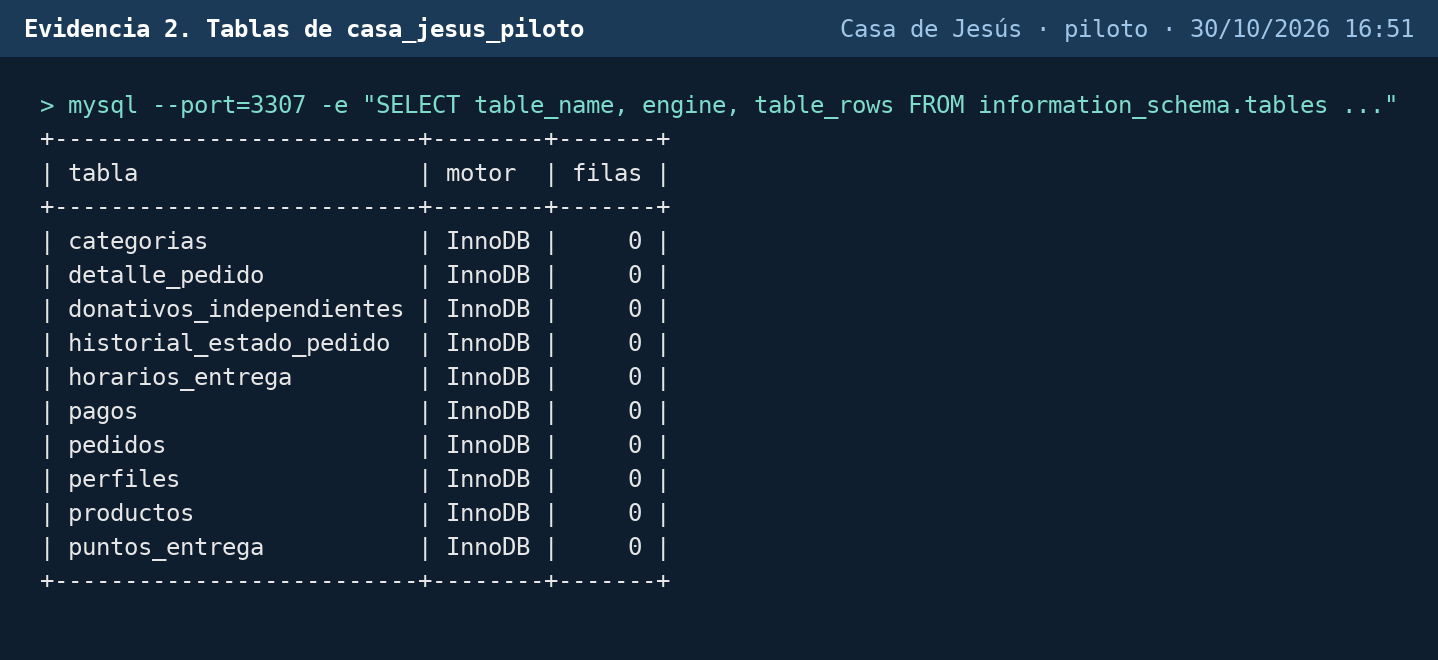
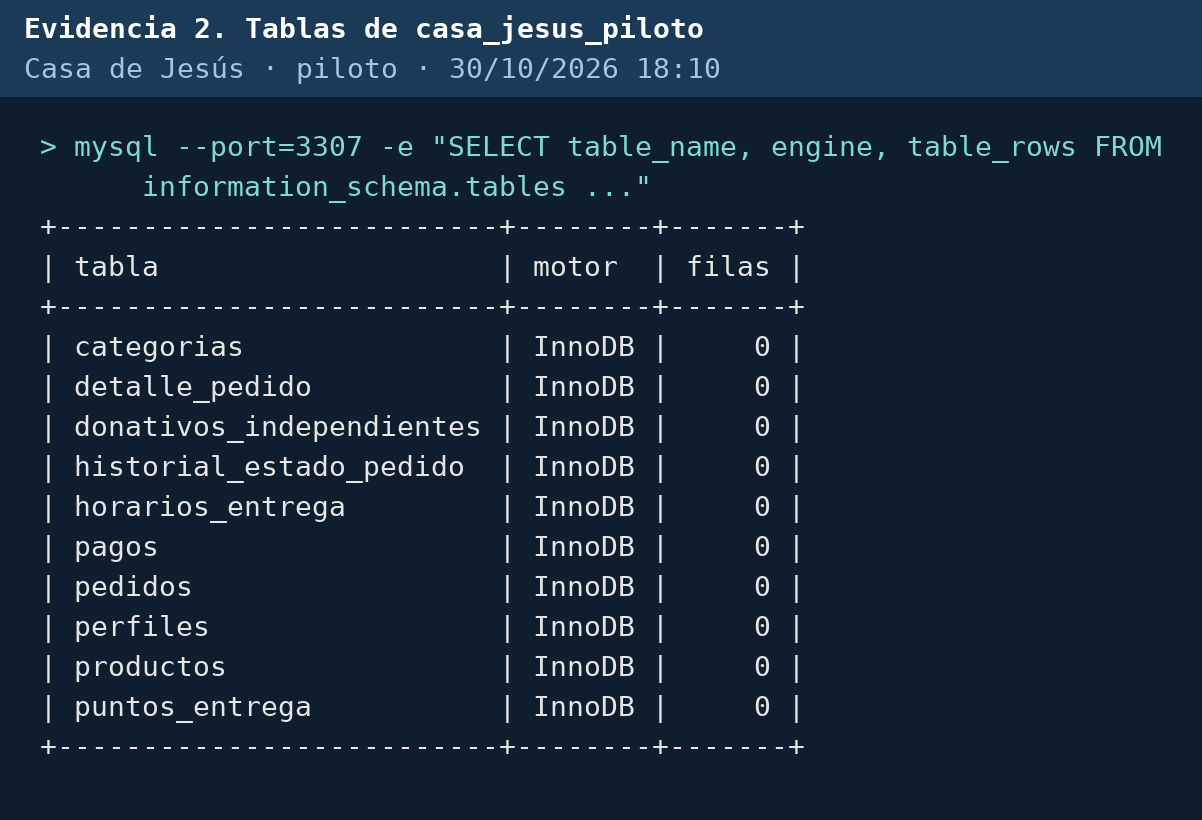
Correcciones de la revisión final: evidencias legibles, textos al día y esquema vigente

diff --git a/evidencias/generar_evidencias.py b/evidencias/generar_evidencias.py
@@ -19,7 +19,7 @@ APP = AQUI.parent / "aplicacion"
 MYSQL = r"C:\xampp\mysql\bin\mysql.exe"
 BASE = [MYSQL, "--no-defaults", "--protocol=tcp", "--host=127.0.0.1", "--port=3307", "--user=root"]
 FECHA = datetime.now().strftime("%d/%m/%Y %H:%M")
-ANCHO_MAX = 100  # caracteres por línea en la imagen
+ANCHO_MAX = 84  # caracteres por línea: a 28 px queda arriba de 8 pt al imprimir a 6.5"
 # DejaVu Sans Mono viene con matplotlib y tiene los símbolos de la salida de Next.js (✓, ┌, └)
 FUENTES = Path(matplotlib.get_data_path()) / "fonts" / "ttf"
 
@@ -29,11 +29,12 @@ SQL_TABLAS = ("SELECT table_name AS tabla, engine AS motor, table_rows AS filas 
 SQL_RELACIONES = ("SELECT table_name AS tabla, column_name AS columna, referenced_table_name AS referencia, "
                   "constraint_name AS restriccion FROM information_schema.key_column_usage "
                   "WHERE table_schema='casa_jesus_piloto' AND referenced_table_name IS NOT NULL ORDER BY 1, 2;")
-SQL_RESTRICCIONES = ("SELECT tc.table_name AS tabla, tc.constraint_name AS restriccion, cc.check_clause AS regla "
+# Una línea por regla (tabla.restricción: regla) para que la imagen quepa legible en la hoja
+SQL_RESTRICCIONES = ("SELECT CONCAT(tc.table_name, '.', tc.constraint_name, ': ', cc.check_clause) AS regla "
                      "FROM information_schema.table_constraints tc JOIN information_schema.check_constraints cc "
                      "ON cc.constraint_schema = tc.constraint_schema AND cc.constraint_name = tc.constraint_name "
                      "AND cc.table_name = tc.table_name WHERE tc.table_schema='casa_jesus_piloto' "
-                     "AND tc.constraint_type='CHECK' ORDER BY 1, 2;")
+                     "AND tc.constraint_type='CHECK' ORDER BY 1;")
 SQL_RECHAZOS = """START TRANSACTION;
 INSERT INTO productos (nombre, precio) VALUES ('Prueba precio negativo', -10);
 INSERT INTO productos (nombre, precio, categoria_id) VALUES ('Prueba categoria inexistente', 100, 999);
@@ -58,8 +59,8 @@ def sql(consulta, extra=()):
 
 
 def imagen(nombre, titulo, comando, salida):
-    fuente = ImageFont.truetype(str(FUENTES / "DejaVuSansMono.ttf"), 24)
-    negrita = ImageFont.truetype(str(FUENTES / "DejaVuSansMono-Bold.ttf"), 24)
+    fuente = ImageFont.truetype(str(FUENTES / "DejaVuSansMono.ttf"), 28)
+    negrita = ImageFont.truetype(str(FUENTES / "DejaVuSansMono-Bold.ttf"), 28)
     lineas = [(f"> {l}" if i == 0 else f"  {l}", "#7FDBCA") for i, l in enumerate(comando.split("\n"))]
     lineas += [(l, "#E6E6E6") for l in salida.split("\n")]
     # Para que se lea impresa a lo ancho de la hoja, las líneas largas se parten (las tablas no)
@@ -73,18 +74,19 @@ def imagen(nombre, titulo, comando, salida):
         partidas += [(x, color) for x in trozos]
     lineas = partidas
     sello = f"Casa de Jesús · piloto · {FECHA}"
-    ancho = max(int(negrita.getlength(titulo) + fuente.getlength(sello)) + 100,
+    # El sello va en una segunda línea del encabezado: así el ancho lo marca el contenido
+    ancho = max(int(negrita.getlength(titulo)) + 60, int(fuente.getlength(sello)) + 60,
                 max(int(fuente.getlength(t)) for t, _ in lineas) + 80)
-    alto = 70 + 40 + len(lineas) * 34 + 40
+    alto = 100 + 40 + len(lineas) * 40 + 40
     im = Image.new("RGB", (ancho, alto), "#0F1E2E")
     d = ImageDraw.Draw(im)
-    d.rectangle((0, 0, ancho, 56), fill="#1B3A57")
-    d.text((24, 14), titulo, font=negrita, fill="#FFFFFF")
-    d.text((ancho - 24, 14), sello, font=fuente, fill="#9FC5E8", anchor="ra")
-    y = 90
+    d.rectangle((0, 0, ancho, 96), fill="#1B3A57")
+    d.text((24, 12), titulo, font=negrita, fill="#FFFFFF")
+    d.text((24, 52), sello, font=fuente, fill="#9FC5E8")
+    y = 130
     for t, color in lineas:
         d.text((40, y), t, font=fuente, fill=color)
-        y += 34
+        y += 40
     im.save(AQUI / f"{nombre}.png")
     (AQUI / f"{nombre}.txt").write_text(f"{titulo}\nFecha: {FECHA}\n\n> {comando}\n{salida}\n", encoding="utf-8")
     print("ok", nombre)
@@ -99,8 +101,8 @@ def main():
     imagen("03_relaciones", "Evidencia 3. Claves foráneas (relaciones)",
            "mysql --port=3307 -e \"SELECT ... FROM information_schema.key_column_usage ...\"", sql(SQL_RELACIONES))
     imagen("04_restricciones_check", "Evidencia 4. Reglas CHECK del esquema",
-           "mysql --port=3307 --vertical -e \"SELECT ... FROM information_schema.check_constraints ...\"",
-           sql(SQL_RESTRICCIONES, ["--vertical"]).replace("*", "").strip())
+           "mysql --port=3307 -N -e \"SELECT CONCAT(tabla, '.', restriccion, ': ', regla) FROM ...\"",
+           correr(BASE + ["--batch", "--skip-column-names", "-e", SQL_RESTRICCIONES]))
     imagen("05_rechazos_integridad", "Evidencia 5. Datos inválidos rechazados (transacción con ROLLBACK)",
            SQL_RECHAZOS.strip(), correr(BASE + ["--force", "--table", "casa_jesus_piloto"], SQL_RECHAZOS, errores_primero=True))
     grants = correr(BASE + ["--skip-column-names", "-e", "SHOW GRANTS FOR 'cj_piloto_lectura'@'127.0.0.1';"])

diff --git a/README.md b/README.md
@@ -4,21 +4,21 @@
 **Equipo 3:** Diego David Lara Martínez y Héctor Oropeza Pelcastre<br>
 **Docente:** María de Montserrat Villalobos Solís · **Entrega:** 30 de octubre de 2026
 
-Casa de Jesús es una asociación de Aguascalientes que vende pays y galletas y recibe donativos. En esta etapa se eligieron las tecnologías del piloto, se configuró la base de datos, se conectó la aplicación con ella y se documentó lo que falta. **Todavía no es la tienda**: la interfaz, el flujo de compra, los pagos y las pruebas funcionales son de la siguiente etapa, como marca la guía.
+Casa de Jesús es una asociación de Aguascalientes que vende pays y galletas y recibe donativos. En esta etapa se eligieron las tecnologías del piloto, se configuró la base de datos, se conectó la aplicación con ella y se documentó lo que falta. Todavía no es la tienda: la interfaz, el flujo de compra, los pagos y las pruebas funcionales son de la siguiente etapa, como marca la guía.
 
 ## Resumen del estado
 
-| | Componente | Estado |
-|---|---|---|
-| ✅ | MariaDB 10.4: base `casa_jesus_piloto` | Configurada y comprobada: 10 tablas, 9 claves foráneas y 13 reglas CHECK |
-| ✅ | Next.js 16 → MariaDB (mysql2) | Conectado con una cuenta que solo puede leer productos; probado en el navegador |
-| ✅ | GitHub | Este repositorio |
-| 🟠 | Base en la nube y Vercel | Pendiente: la base local solo escucha en 127.0.0.1 y Vercel no la alcanza |
-| 🟠 | Mercado Pago Checkout Pro (prueba) | Pendiente para la etapa de programación; la tabla `pagos` ya está lista |
-| ⚪ | Resend (correo con el folio) | Previsto |
-| 🟠 | Autenticación y almacenamiento de imágenes | Por elegir (antes los daba Supabase) |
+| Componente | Estado |
+|---|---|
+| MariaDB 10.4: base `casa_jesus_piloto` | Configurada y comprobada: 10 tablas, 9 claves foráneas y 13 reglas CHECK |
+| Next.js 16 → MariaDB (mysql2) | Conectado con una cuenta que solo puede leer productos; probado en el navegador |
+| GitHub | Este repositorio |
+| Base en la nube y Vercel | Pendiente: la base local solo escucha en 127.0.0.1 y Vercel no la alcanza |
+| Mercado Pago Checkout Pro (prueba) | Pendiente para la etapa de programación; la tabla `pagos` ya está lista |
+| Resend (correo con el folio) | Previsto |
+| Autenticación y almacenamiento de imágenes | Por elegir (antes los daba Supabase) |
 
-**Reparto del equipo** (plan del 28 de octubre): Héctor, base de datos (modelo, tablas, relaciones y reglas); Diego, arquitectura, ficha de tecnologías, flujo de datos, repositorio y conexión de la aplicación; los dos, bitácora, revisión y exposición.
+Reparto del equipo, según el plan del 28 de octubre: Héctor, base de datos (modelo, tablas, relaciones y reglas); Diego, arquitectura, ficha de tecnologías, flujo de datos, repositorio y conexión de la aplicación; los dos, bitácora, revisión y exposición.
 
 ## Entregables y criterios de evaluación
 
@@ -30,7 +30,7 @@ Casa de Jesús es una asociación de Aguascalientes que vende pays y galletas y 
 | Integración inicial de tecnologías | 25 | 4. Evidencia de configuración e integración | [Sección 4](#4-evidencia-de-configuración-e-integración) |
 | Documentación técnica y exposición | 15 | 5. Mapa del flujo de datos · 6. Bitácora · 7. Video | [Secciones 5 a 7](#5-mapa-del-flujo-de-datos) |
 
-El documento completo (`Equipo3_Integracion_Tecnologica.pdf`, en Word carta con formato APA) se entregó en Classroom. Este repositorio tiene lo que lo respalda: el código, el esquema y la salida real de cada comprobación.
+El documento completo (`Equipo3_Integracion_Tecnologica.pdf`, en Word carta con formato APA) se entrega en Classroom. Este repositorio tiene lo que lo respalda: el código, el esquema y la salida real de cada comprobación.
 
 ---
 
@@ -51,7 +51,7 @@ Las líneas turquesas son conexiones configuradas y comprobadas; las grises, pre
 |---|---|---|---|---|
 | MariaDB 10.4 (InnoDB) | Catálogo, pedidos, donativos, pagos y entregas | Ya estaba instalada con XAMPP; MariaDB aplica reglas CHECK e InnoDB maneja claves foráneas y transacciones | R-001 a R-010, R-024 | Configurada y comprobada |
 | Next.js 16.4 y React 19.3 | Páginas y código de servidor | Las consultas se hacen en el servidor; las variables sin `NEXT_PUBLIC_` no llegan al navegador | R-003, R-010, R-016 | Compila y lee la base |
-| mysql2 | Conexión de Next.js con MariaDB | `execute()` usa consultas preparadas, que separan el SQL de los datos | R-021 | Conectado, solo lectura |
+| mysql2 | Conexión de Next.js con MariaDB | `execute()` usa consultas preparadas, y así un dato del cliente no se interpreta como SQL | R-024 | Conectado, solo lectura |
 | Git y GitHub | Control de versiones y respaldo del código | Historial de cambios y punto de partida para Vercel | R-027 | Conectado |
 | Vercel | Publicar la tienda | Despliega directo desde GitHub | R-027 | Pendiente |
 | Mercado Pago Checkout Pro | Cobro en modo de prueba | El cliente paga en la página de Mercado Pago; la tienda nunca ve la tarjeta | R-006, R-007 | Pendiente |
@@ -65,7 +65,7 @@ Las líneas turquesas son conexiones configuradas y comprobadas; las grises, pre
 ![Modelo relacional](graficas/fig3_modelo_datos.png)
 
 - **Esquema:** [`esquema_casa_jesus.sql`](esquema_casa_jesus.sql), con 10 tablas.
-- **Migraciones:** [`migraciones/001_historial_y_donativos.sql`](migraciones/001_historial_y_donativos.sql), que agrega al historial el origen del cambio y al donativo folio, nombre opcional y mínimo de $10.
+- **Migraciones:** [`migraciones/001_historial_y_donativos.sql`](migraciones/001_historial_y_donativos.sql), que agrega al historial el origen del cambio y al donativo folio, nombre opcional y monto mayor a $10.
 
 | Decisión | Requisito |
 |---|---|

diff --git a/BITACORA.md b/BITACORA.md
@@ -11,7 +11,7 @@ Reparto según el plan de trabajo del 28 de octubre: Héctor, base de datos (mod
 | 30 oct 2026 | Base `casa_jesus_piloto` con el esquema `esquema_casa_jesus.sql`: 10 tablas, 9 claves foráneas, 13 reglas CHECK. | El puerto 3306 lo usa otro proyecto. Primero se creó ahí y después se pasó a una instancia propia en 3307 con su carpeta de datos (`entorno_local/datos`). La base vacía del 3306 se retirará después. |
 | 30 oct 2026 | Scripts `iniciar_base.ps1` y `detener_base.ps1`. | Antes de arrancar comprueban que el 3307 sea de esta carpeta de datos, para no tocar la otra instancia. |
 | 30 oct 2026 | Prueba de reglas con cuatro datos inválidos (precio negativo, categoría inexistente, donativo de $5, pago sin origen). | Se hizo dentro de una transacción con ROLLBACK para no dejar registros. Los cuatro se rechazaron. |
-| 30 oct 2026 | Migración `migraciones/001_historial_y_donativos.sql`: el historial registra si el cambio lo hizo la administradora o el sistema; el donativo sin compra tiene folio, nombre opcional y mínimo mayor a $10 (R-008, R-017). Quedan 13 reglas CHECK. | El cambio a «pagado» lo hace el servidor sin persona y la regla anterior no lo permitía. En MariaDB 10.4 la regla escrita junto a la columna no se borra con DROP CONSTRAINT; se quitó redefiniendo la columna. |
+| 30 oct 2026 | Migración `migraciones/001_historial_y_donativos.sql`: el historial registra si el cambio lo hizo la administradora o el sistema; el donativo sin compra tiene folio, nombre opcional e importe mayor a $10 (R-008, R-017). Quedan 13 reglas CHECK. | El cambio a «pagado» lo hace el servidor sin persona y la regla anterior no lo permitía. En MariaDB 10.4 la regla escrita junto a la columna no se borra con DROP CONSTRAINT; se quitó redefiniendo la columna. |
 | 30 oct 2026 | Proyecto Next.js 16 con `lib/bd.mjs` (mysql2) y cuenta `cj_piloto_lectura` con SELECT solo sobre `productos`. | La contraseña va en `aplicacion/.env.local`, excluido de Git. |
 | 30 oct 2026 | `npm run comprobar:bd`, `npm run comprobar:permisos` y `npm run build`. | Borrar, insertar y leer pedidos se rechazan, como se esperaba. |
 | 30 oct 2026 | Página probada en el navegador con `next start` en 127.0.0.1:3100. | Se levantó solo para la prueba y se apagó. |

diff --git a/aplicacion/README.md b/aplicacion/README.md
@@ -1,9 +1,15 @@
-# Aplicación inicial del piloto
+# Aplicación del piloto
 
-Proyecto Next.js mínimo para documentar la integración con MariaDB local. No es todavía la tienda: no implementa compras, pagos, autenticación ni despliegue.
+Proyecto Next.js que ya se conecta con la base MariaDB local. Todavía no es la tienda: no tiene compras, pagos, autenticación ni despliegue.
 
-La configuración local está en `.env.local`, excluida de Git. No compartirla. `.env.example` describe las variables sin credenciales. La cuenta local actual solo puede consultar la tabla de productos; deberá revisarse antes de añadir operaciones.
+La contraseña va en `.env.local`, que no se sube a Git; `.env.example` trae las variables sin valores. La cuenta que usa la aplicación solo puede leer la tabla `productos`, y cada etapa le sumará solo los permisos que necesite.
 
-Con la instancia del piloto encendida, `npm run comprobar:bd` consulta el conteo de productos mediante el mismo módulo de servidor que utiliza la página. `npm run build` verifica la compilación sin arrancar un servidor web. La página se probó en el navegador con `npx next start -p 3100 -H 127.0.0.1`.
+Con la instancia del piloto encendida:
 
-La conexión apunta únicamente a `127.0.0.1:3307`: no funciona desde Vercel ni desde otra computadora. La arquitectura de producción y sus credenciales requieren una decisión separada.
+- `npm run comprobar:bd` cuenta los productos con el mismo `lib/bd.mjs` que usa la página.
+- `npm run comprobar:permisos` confirma que borrar, insertar y leer pedidos se rechaza.
+- `npm run build` compila sin levantar el servidor.
+
+La página se probó en el navegador con `npx next start -p 3100 -H 127.0.0.1`.
+
+La conexión apunta solo a `127.0.0.1:3307`, así que no funciona desde Vercel ni desde otra computadora. Para publicar falta elegir una base en la nube (ver `../BITACORA.md`).

diff --git a/entorno_local/README.md b/entorno_local/README.md
@@ -1,9 +1,9 @@
 # Entorno local de Casa de Jesús
 
-Esta carpeta contiene una instancia de MariaDB para el piloto, separada de la instancia del otro proyecto. Usa los ejecutables de XAMPP y sus propios datos y puerto TCP 3307, limitado a `127.0.0.1`. Solo sirve para desarrollo local con información ficticia.
+Instancia de MariaDB del piloto, separada de la que usa otro proyecto en el puerto 3306. Usa los ejecutables de XAMPP, pero tiene su propia carpeta de datos (`datos/`, fuera de Git) y escucha solo en `127.0.0.1:3307`. Es para desarrollo local y con datos de prueba.
 
-La aplicación web todavía no está construida. Cuando exista, se ejecutará en su propio puerto y se conectará a esta instancia; su puerto se definirá al preparar el proyecto.
+`iniciar_base.ps1` y `detener_base.ps1` arrancan y detienen solo esta instancia. Antes de hacer nada revisan que el puerto 3307 sea de esta carpeta de datos, así que no tocan Apache, el proxy ni la otra instancia.
 
-Para iniciar o detener únicamente esta instancia, ejecutar `iniciar_base.ps1` o `detener_base.ps1` desde PowerShell. No detienen Apache, el proxy ni la instancia de MariaDB del otro proyecto.
+La aplicación de `aplicacion/` se conecta aquí con la cuenta `cj_piloto_lectura`, que solo puede leer `productos`, y se probó en 127.0.0.1:3100.
 
-La cuenta local inicial es solo para configuración y no debe exponerse a la red ni usarse en producción. Antes de desplegar o almacenar datos reales se requieren cuentas con privilegios limitados y credenciales seguras fuera del repositorio.
+La cuenta `root` de esta instancia todavía no tiene contraseña. Como solo acepta conexiones de la misma computadora no afecta la demostración, pero se le pondrá antes de guardar datos reales.
